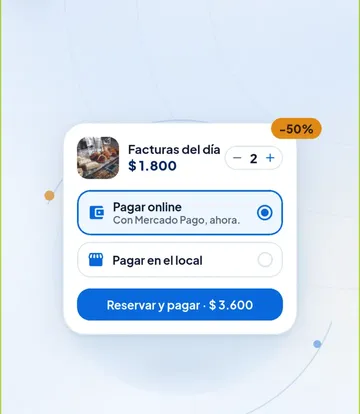
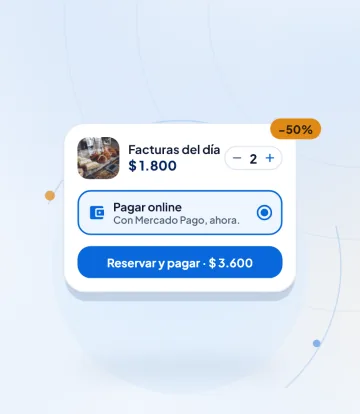
Pago sólo con Mercado Pago: la ilustración de la reserva y la política de privacidad
La ilustración del paso 3 de la portada sale de la bienvenida de la app y
ya no muestra "Pagar en el local". En privacidad, la huella de la compra se
toma cuando se acredita el pago con Mercado Pago; fecha al 24/11/2026.

diff --git a/privacidad.html b/privacidad.html
@@ -28,7 +28,7 @@
 <header><a class="marca" href="./"><img src="favicon.svg" alt="" width="30" height="30"> Salvá</a></header>
 <main>
   <h1>Política de privacidad</h1>
-  <p class="fecha">Última actualización: 21 de noviembre de 2026</p>
+  <p class="fecha">Última actualización: 24 de noviembre de 2026</p>
 
   <p>Salvá conecta comercios que tienen productos por vencer con personas
   que los compran a precio rebajado. Esta página explica, sin vueltas, qué datos
@@ -118,8 +118,8 @@
   porque forman parte de la contabilidad del comercio y de nuestras obligaciones
   fiscales.</p>
   <p>Además, para que los cupones de primera compra sean uno por persona y no
-  por cuenta, cuando concretás una compra (la pagás online o en el local al
-  retirarla) y cuando usás una promoción de una sola vez por persona, guardamos
+  por cuenta, cuando concretás una compra (se acredita tu pago con Mercado Pago)
+  y cuando usás una promoción de una sola vez por persona, guardamos
   una <em>huella cifrada</em> de tu correo y, si lo cargaste, de tu teléfono.
   Si pagaste con Mercado Pago una compra con cupón, también de esa cuenta. Es un
   código que se calcula con una clave secreta propia de Salvá: no permite
